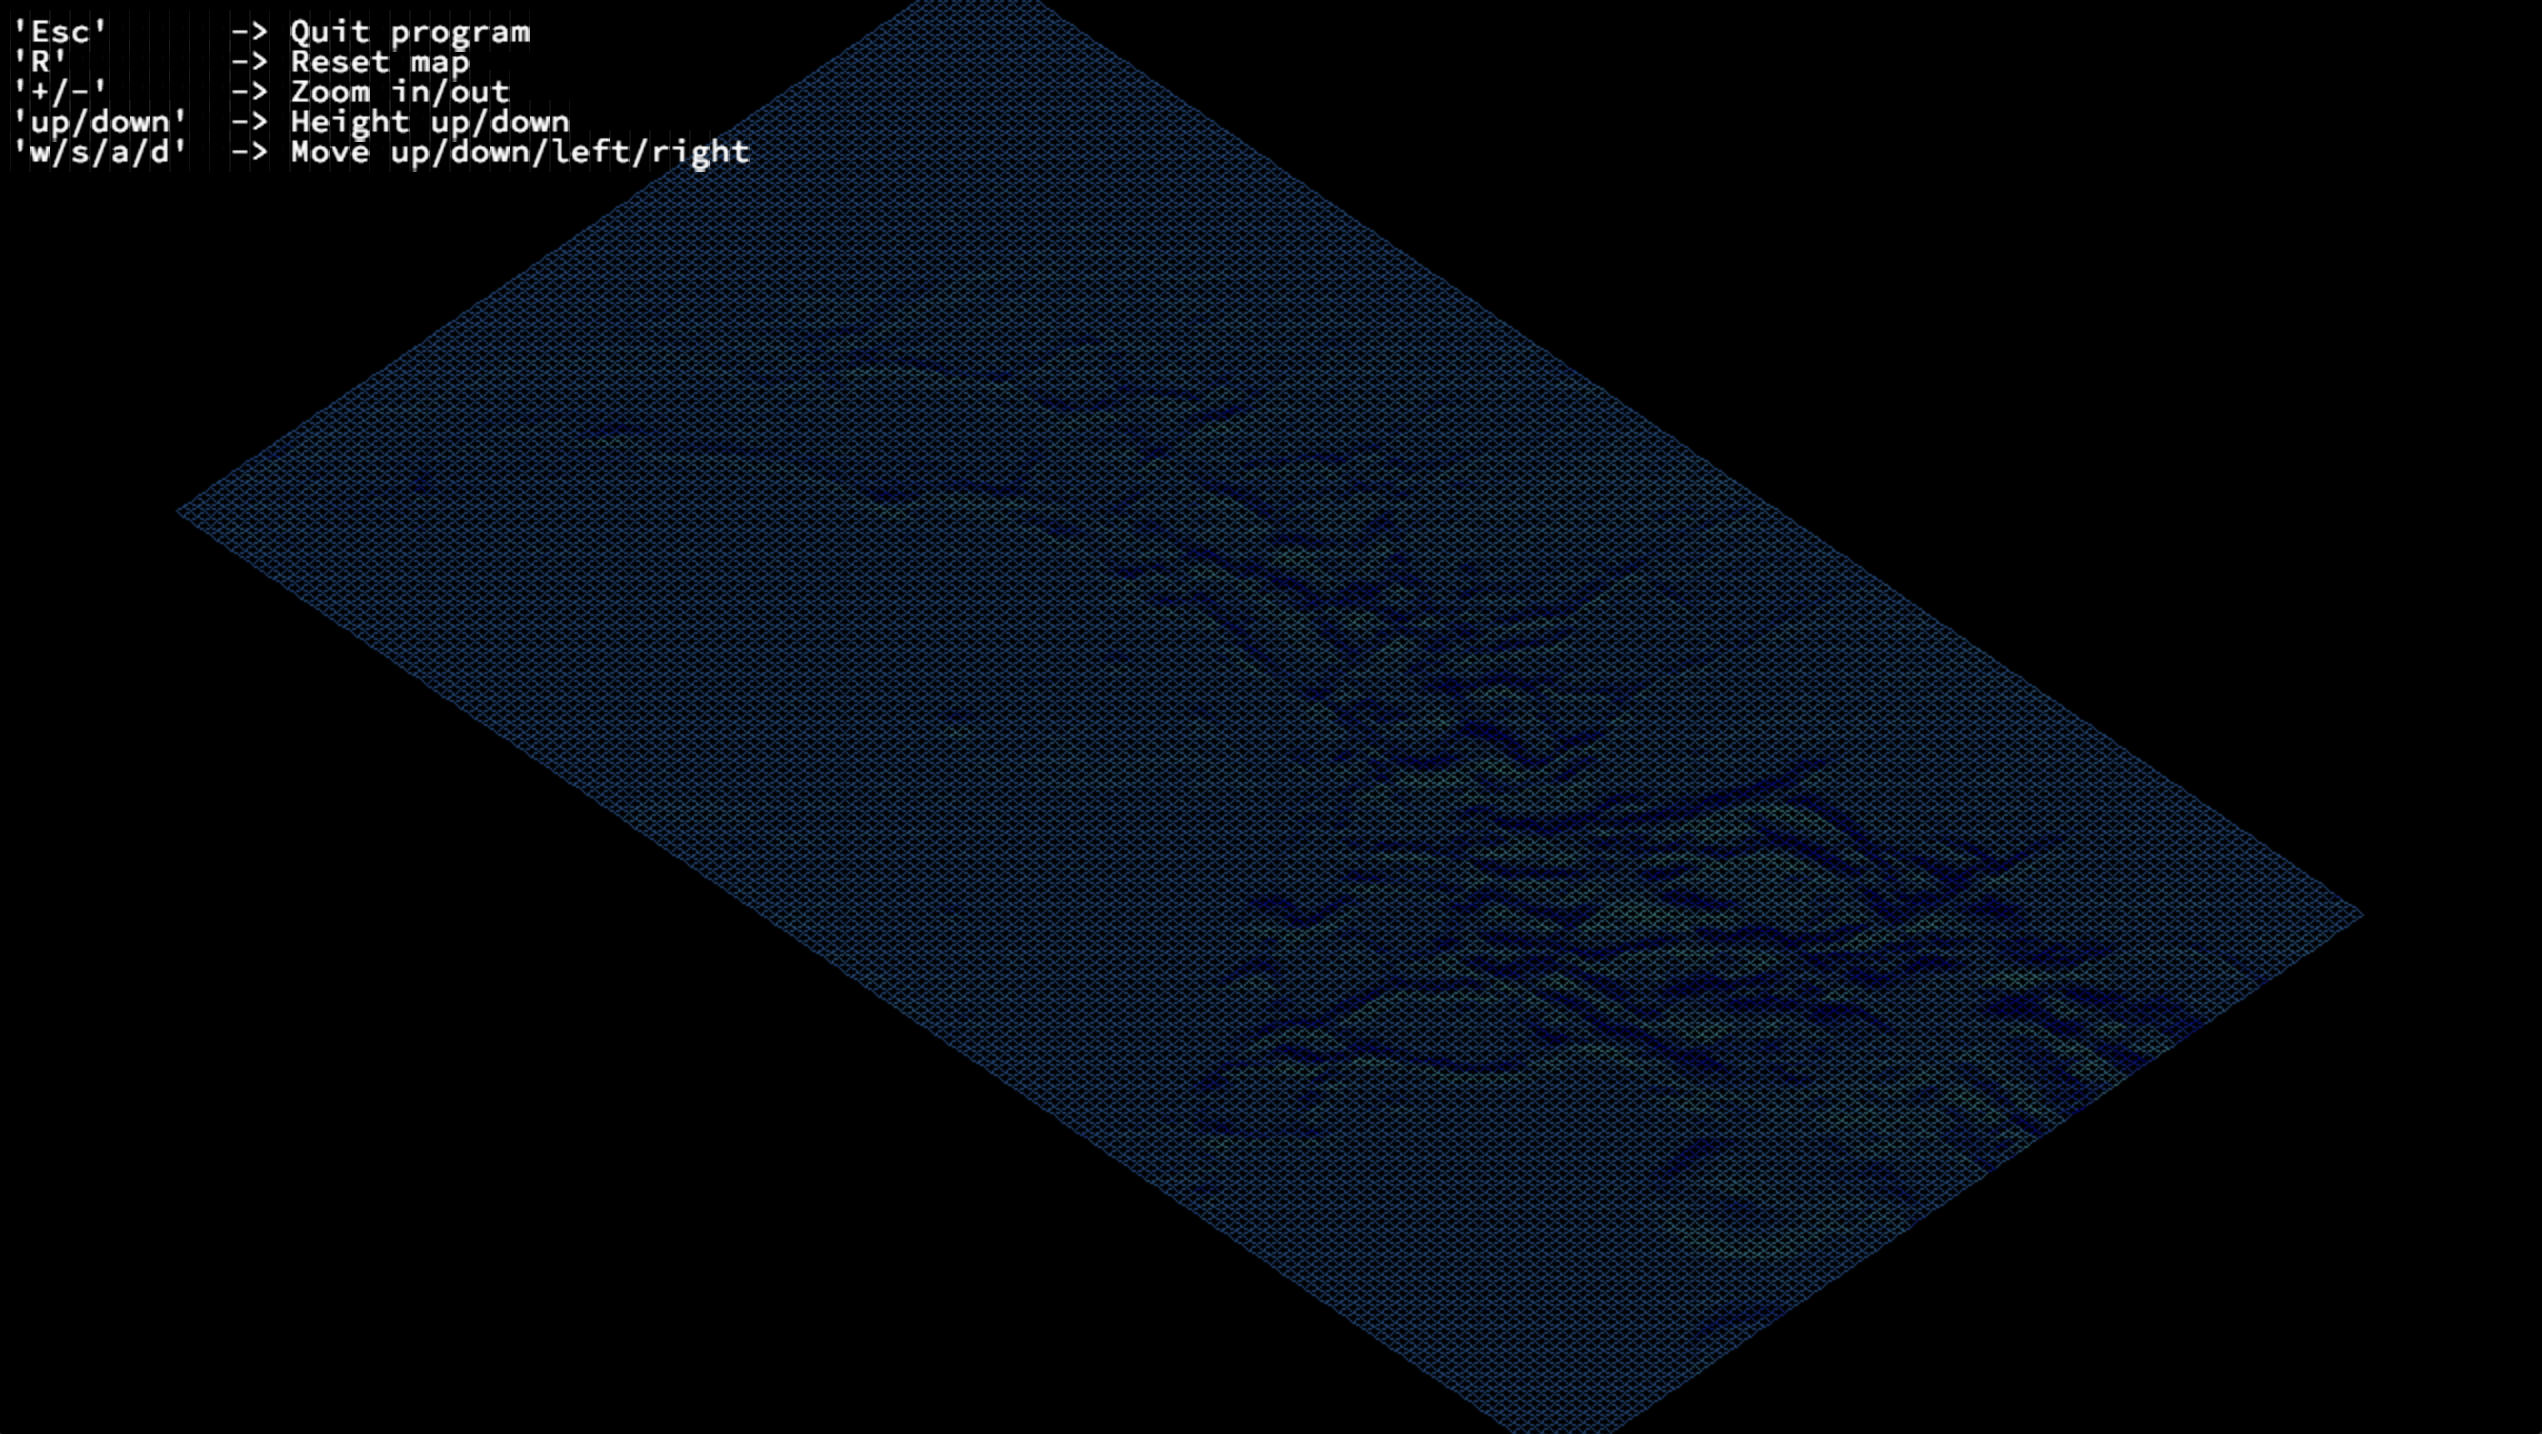
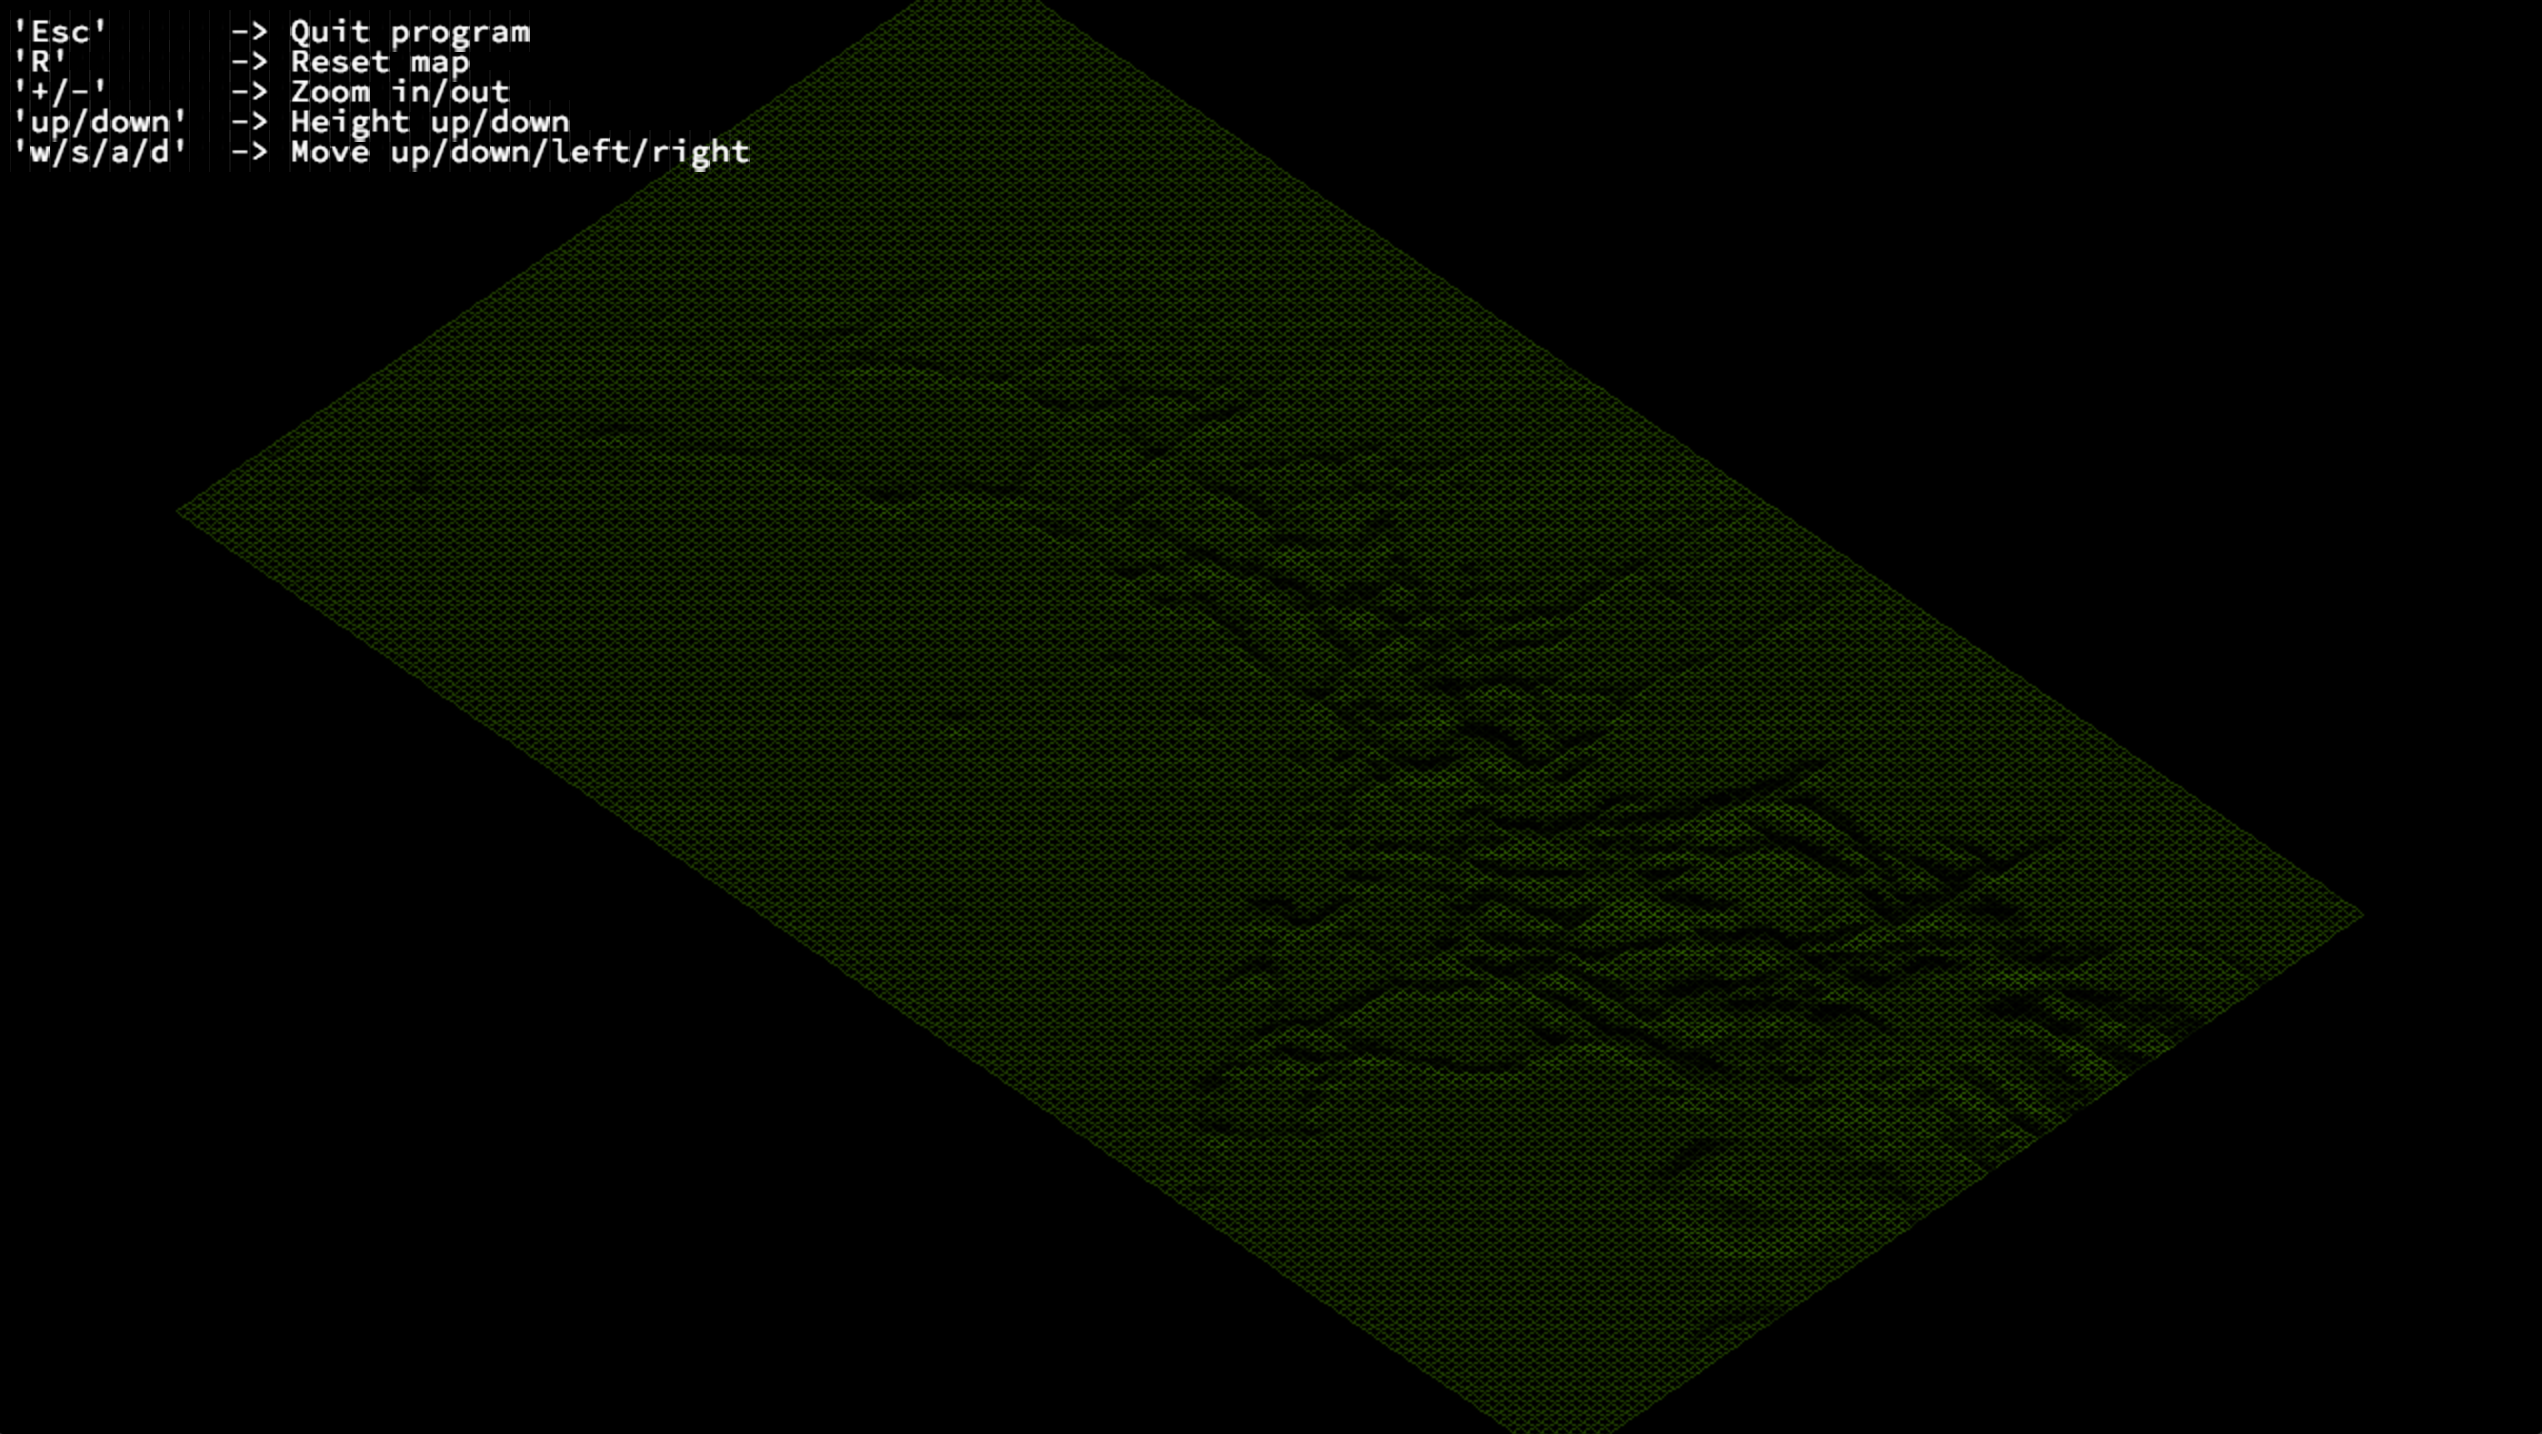
demo

Changed region(s): [[0.0622, 0.0, 0.9323, 1.0]]

diff --git a/src/initialize_map.c b/src/initialize_map.c
@@ -6,7 +6,7 @@
 /*   By: julian <julian@student.42.fr>              +#+  +:+       +#+        */
 /*                                                +#+#+#+#+#+   +#+           */
 /*   Created: 2021/09/06 16:56:47 by jludt             #+#    #+#             */
-/*   Updated: 2021/09/12 13:56:21 by julian           ###   ########.fr       */
+/*   Updated: 2022/01/02 17:54:19 by julian           ###   ########.fr       */
 /*                                                                            */
 /* ************************************************************************** */
 
@@ -21,7 +21,7 @@ void	initialize_map(t_data *data)
 	data->y_translate = 0;
 	data->zoom = ((WINDOW_WIDTH / data->width) \
 				+ (WINDOW_HEIGHT / data->height)) / 3;
-	data->blue = 0x6F;
+	data->blue = 0x00;
 	data->green = 0x6F;
 	data->red = 0x6F;
 }
